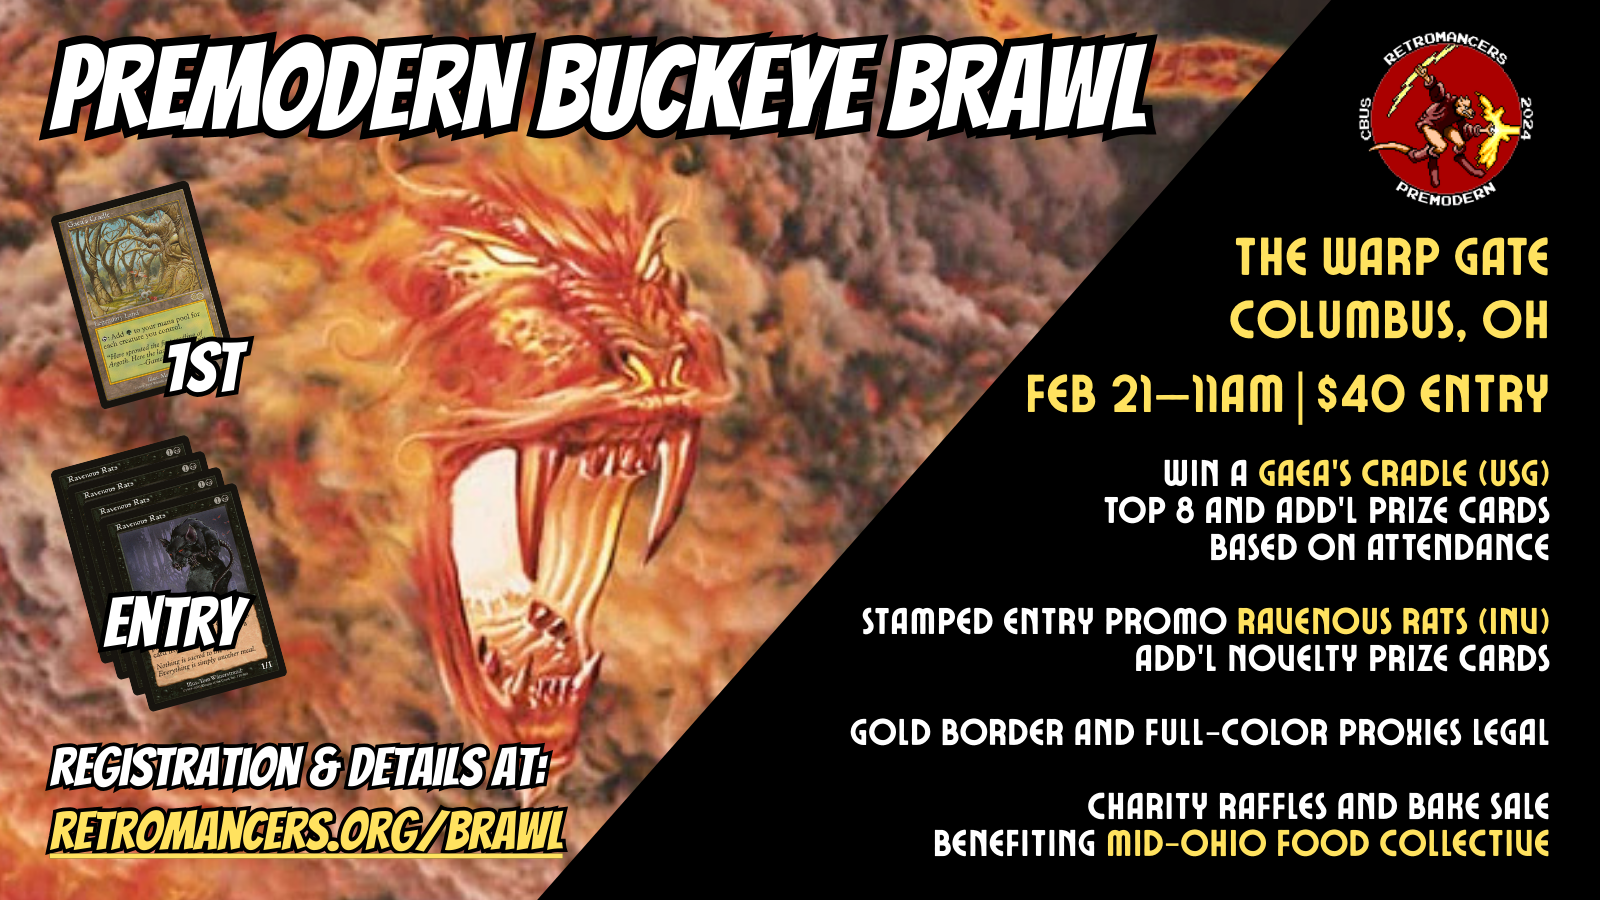
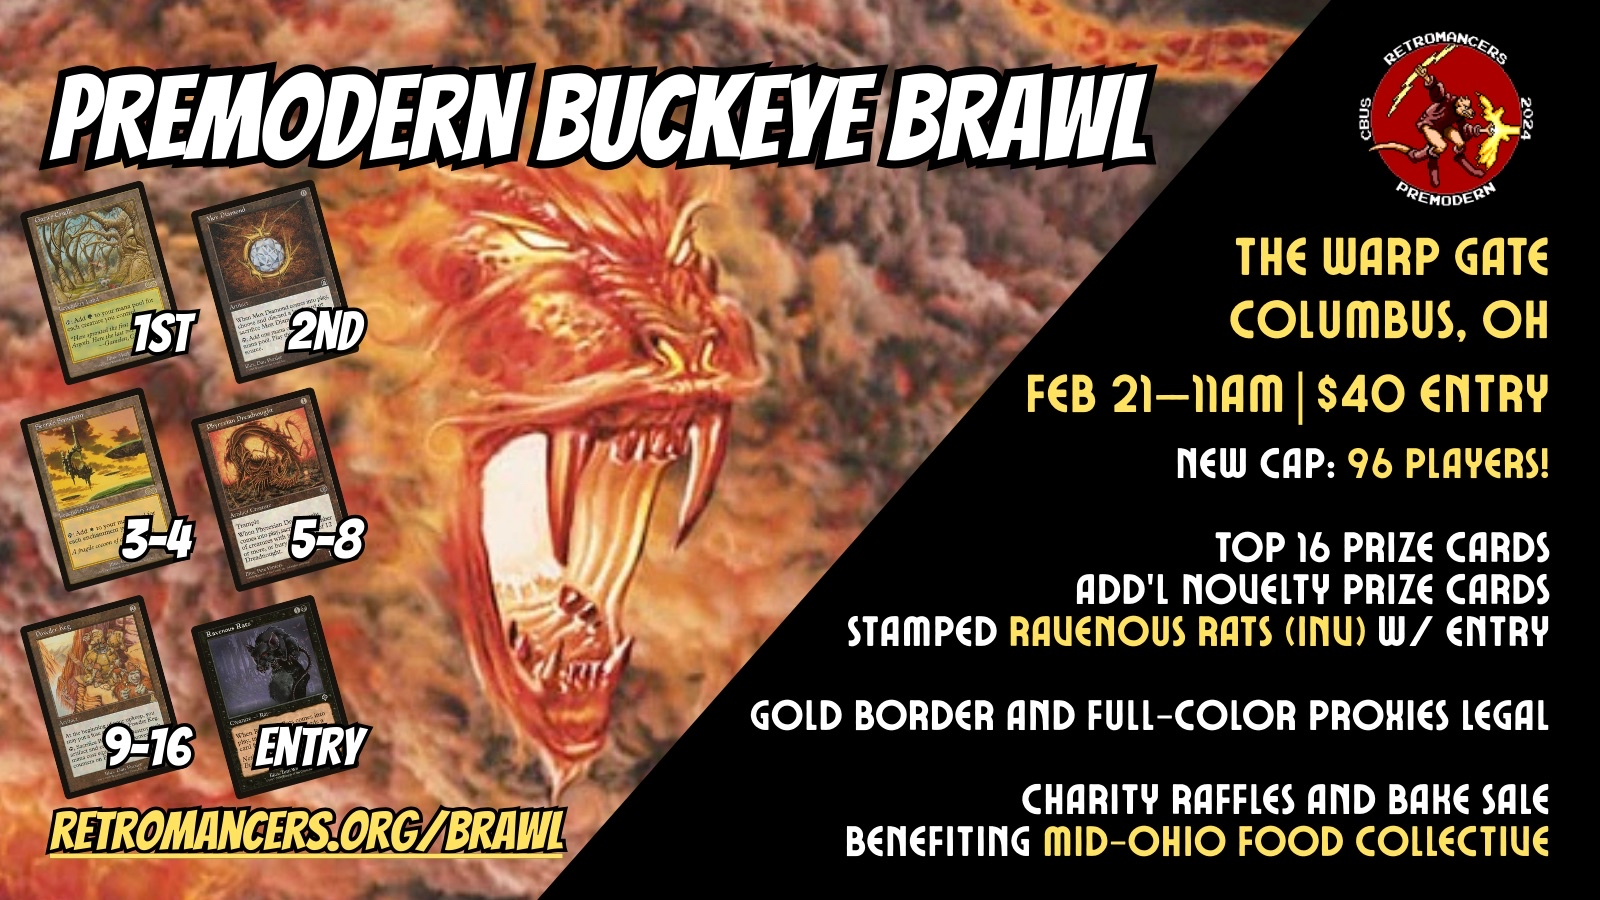
update messaging

diff --git a/brawl/index.html b/brawl/index.html
@@ -1,5 +1,6 @@
 <!DOCTYPE html>
 <html lang="en">
+
 <head>
   <meta charset="UTF-8">
   <meta name="viewport" content="width=device-width, initial-scale=1.0">
@@ -12,6 +13,7 @@
   <link rel="icon" type="image/png" sizes="16x16" href="/favicon-16x16.png">
   <link rel="manifest" href="/site.webmanifest">
 </head>
+
 <body>
   <div class="container">
     <header>
@@ -22,7 +24,8 @@
 
     <section>
       <div style="display: flex; justify-content: center;">
-        <img style="width: 100%; max-width:80ch;" src="../images/buckeye-brawl-2026.png" alt="Premodern Buckeye Brawl - February 21, 2026 at 11AM">
+        <img style="width: 100%; max-width:80ch;" src="../images/buckeye-brawl-2026.png"
+          alt="Premodern Buckeye Brawl - February 21, 2026 at 11AM">
       </div>
     </section>
 
@@ -38,9 +41,18 @@
           <li>
             <br>
             <p>
-              Please continue to join the waitlist if you would like to register for the 2026 Buckey Brawl!
-              Expansion is possible but pending overall response.
-              Thank you for your patience, and we look forward to seeing you at The Brawl!
+              We have been actively working behind the scenes to try our best to accommodate the overwhelming response
+              we have gotten for this event.
+              We have coordinated with our venue and will be able to raise our capacity from <strong>64 to 96 total
+                players</strong>!
+            </p>
+
+            <p>
+              These additional slots will be offered first to any players that are on the waitlist, in the order that
+              they signed up.
+              If you are currently waitlisted, please keep an eye out for an email from
+              <strong>webmaster@retromancers.org</strong> for more information regarding the next steps needed for
+              registration. As a note, your response will be time sensitive.
             </p>
           </li>
         </ul>
@@ -58,11 +70,12 @@
       <article>
         <h3>Prizing</h3>
         <ul>
-          <li><strong>1st Place</strong> - Gaea's Cradle (Urza's Saga)</li>
-          <li><strong>Top 8</strong> - Prize cards to be announced</li>
-          <li><strong>Top 9-16</strong> - Anticipated, but based on attendance</li>
+          <li><strong>1st</strong> - Gaea's Cradle (USG)</li>
+          <li><strong>2nd</strong> - Mox Diamond (STH)</li>
+          <li><strong>3rd/4th</strong> - Serra's Sanctum (USG)</li>
+          <li><strong>5th-8th</strong> - Phyrexian Dreadnought (MIR)</li>
+          <li><strong>9th-16th</strong> - Powder Keg (UDS)</li>
           <li>Stamped entry Ravenous Rats promo</li>
-          <li>Additional prizing based on attendance</li>
           <li>Novelty door prize cards</li>
         </ul>
       </article>
@@ -88,7 +101,8 @@
     <footer>
       <div class="l-stack t-center">
         <span class="l-cluster l-cluster--sm">
-          <img class="logo-mini" src="../images/retromancer-mini.jpg" title="Retromancers" alt="Retromancers" class="logo-mini">
+          <img class="logo-mini" src="../images/retromancer-mini.jpg" title="Retromancers" alt="Retromancers"
+            class="logo-mini">
           <span class="t-nowrap">Retromancers &copy; 2003</span>
         </span>
         <em class="t-sm">Logo art by Grant</em>
@@ -96,4 +110,5 @@
     </footer>
   </div>
 </body>
+
 </html>
